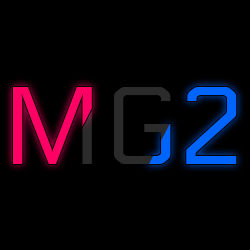
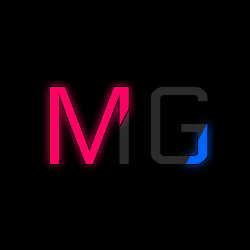
modded gulag vanilla+ v1.0

Changed region(s): [[0.028, 0.308, 0.98, 0.7]]

diff --git a/index.html b/index.html
@@ -4,8 +4,8 @@
 <head>
 <meta charset="UTF-8">
 <meta name="viewport" content="width=device-width, initial-scale=1.0">
-<title>Modded Gulag 2</title>
-<link rel="shortcut icon" type="image/png" href="ikona.png"/>
+<title>Modded Gulag Vanilla+</title>
+<link rel="shortcut icon" type="image/png" href="./ikona.png"/>
 <link rel="preconnect" href="https://fonts.googleapis.com">
 <link rel="preconnect" href="https://fonts.gstatic.com" crossorigin>
 <link href="https://fonts.googleapis.com/css2?family=Roboto&display=swap" rel="stylesheet">
@@ -19,7 +19,7 @@
     </div>
     <div class="content">
         <div id="tekst-galeria" class="napis-galeria">
-            <h1>Modded Gulag 2</h1>
+            <h1>Modded Gulag V+</h1>
             Pobierz najnowsza wersje modpacka
             <a class="przycisk" onclick="pobieranie()">&#129139;</a>
         </div>
@@ -54,9 +54,9 @@
         <div class="spacer"></div>
         <div class="pobieranie">
             <h2>Pobierz paczke</h2>
-            v1.4
-            <a class="przycisk pobieraniebtn" href="https://drive.google.com/u/0/uc?export=download&confirm=0zni&id=106brE7WGztzFAwVUgiaHaelLplUIIhoo" target="blank">Pobierz</a>
-            <a id="niestandardowe" href="https://drive.google.com/drive/folders/1UkS75J-BgSQk5QRZQQgh1J0tcHN4pRUj?usp=sharing" target="blank">Pobieranie niestandardowe.</a>
+            v1.0
+            <a class="przycisk pobieraniebtn" href="https://drive.google.com/u/0/uc?export=download&confirm=x3Ui&id=1J8YextW6mxoYzGpmKRM6nwNU3x9oEzGK" target="blank">Pobierz</a>
+            <a id="niestandardowe" href="https://drive.google.com/drive/folders/1WGfn92iYCScKdD-P6f5CAjLILt8e2a6n?usp=sharing" target="blank">Pobieranie niestandardowe.</a>
         </div>
         <div class="footer">&copy;2022 Mateusz Biniak</div> 
     </div>
